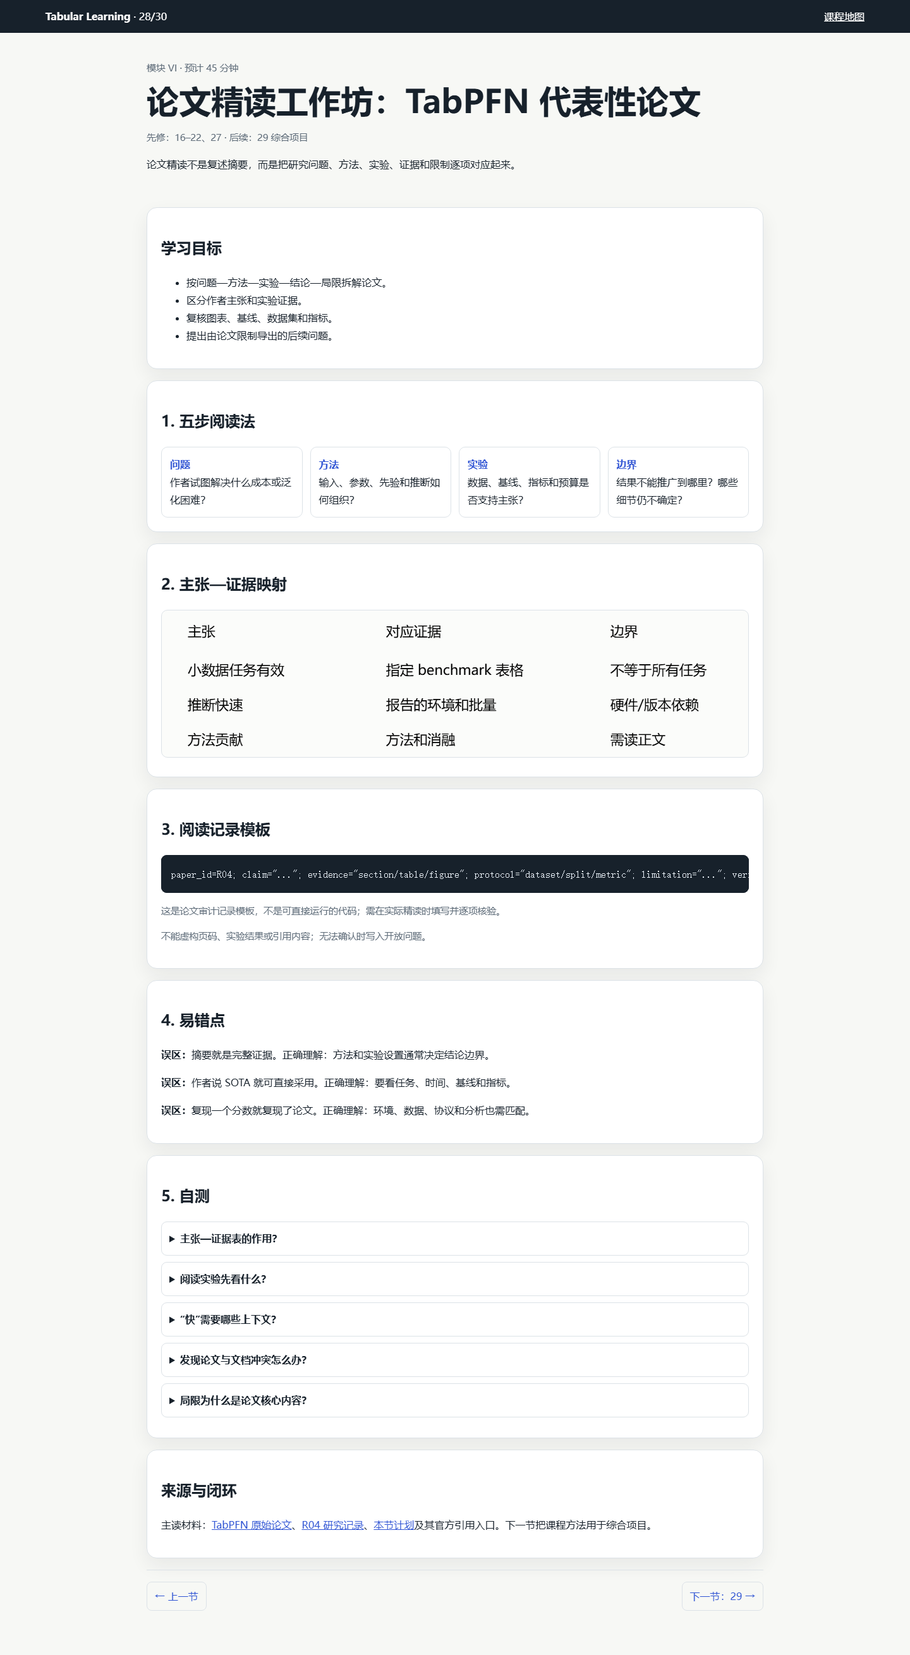
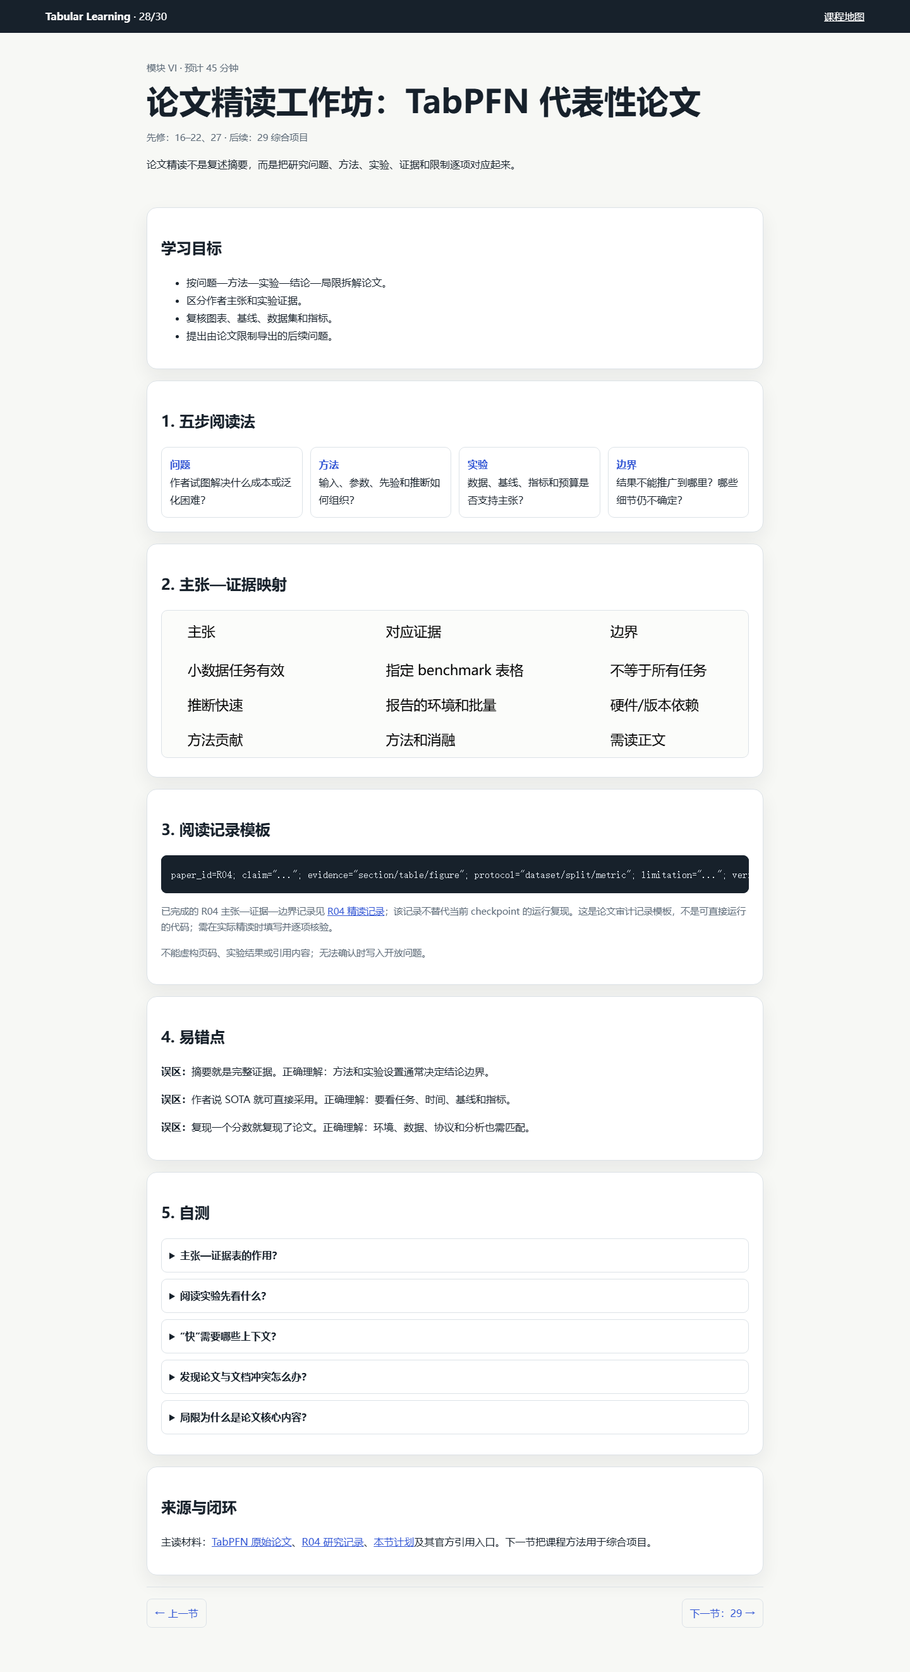
research: record R04 TabPFN paper reading

diff --git a/lessons/28_paper_workshop.html b/lessons/28_paper_workshop.html
@@ -1,1 +1,1 @@
-<!doctype html><html lang="zh-CN"><head><meta charset="utf-8"><meta name="viewport" content="width=device-width,initial-scale=1"><meta name="description" content="TabPFN代表性论文精读工作坊"><title>28｜论文精读工作坊：TabPFN 代表性论文</title><link rel="stylesheet" href="../assets/lesson.css"></head><body><header class="top"><span><strong>Tabular Learning</strong> · 28/30</span><a href="../index.html">课程地图</a></header><main class="layout"><section class="hero"><div class="eyebrow">模块 VI · 预计 45 分钟</div><h1>论文精读工作坊：TabPFN 代表性论文</h1><p class="meta">先修：16–22、27 · 后续：29 综合项目</p><p>论文精读不是复述摘要，而是把研究问题、方法、实验、证据和限制逐项对应起来。</p></section><section class="card"><h2>学习目标</h2><ul><li>按问题—方法—实验—结论—局限拆解论文。</li><li>区分作者主张和实验证据。</li><li>复核图表、基线、数据集和指标。</li><li>提出由论文限制导出的后续问题。</li></ul></section><section class="card"><h2>1. 五步阅读法</h2><div class="grid"><div class="term"><strong>问题</strong>作者试图解决什么成本或泛化困难？</div><div class="term"><strong>方法</strong>输入、参数、先验和推断如何组织？</div><div class="term"><strong>实验</strong>数据、基线、指标和预算是否支持主张？</div><div class="term"><strong>边界</strong>结果不能推广到哪里？哪些细节仍不确定？</div></div></section><section class="card"><h2>2. 主张—证据映射</h2><svg viewBox="0 0 680 170" role="img" aria-label="论文主张与证据映射表" style="max-width:100%;background:#fbfcfa;border:1px solid #dce2e7;border-radius:10px"><text x="30" y="30">主张</text><text x="260" y="30">对应证据</text><text x="520" y="30">边界</text><text x="30" y="75">小数据任务有效</text><text x="260" y="75">指定 benchmark 表格</text><text x="520" y="75">不等于所有任务</text><text x="30" y="115">推断快速</text><text x="260" y="115">报告的环境和批量</text><text x="520" y="115">硬件/版本依赖</text><text x="30" y="155">方法贡献</text><text x="260" y="155">方法和消融</text><text x="520" y="155">需读正文</text></svg></section><section class="card"><h2>3. 阅读记录模板</h2><pre><code>paper_id=R04; claim="..."; evidence="section/table/figure"; protocol="dataset/split/metric"; limitation="..."; verified_date="2026-10-10"</code></pre><p class="meta">这是论文审计记录模板，不是可直接运行的代码；需在实际精读时填写并逐项核验。</p><p class="meta">不能虚构页码、实验结果或引用内容；无法确认时写入开放问题。</p></section><section class="card"><h2>4. 易错点</h2><p><strong>误区：</strong>摘要就是完整证据。正确理解：方法和实验设置通常决定结论边界。</p><p><strong>误区：</strong>作者说 SOTA 就可直接采用。正确理解：要看任务、时间、基线和指标。</p><p><strong>误区：</strong>复现一个分数就复现了论文。正确理解：环境、数据、协议和分析也需匹配。</p></section><section class="card"><h2>5. 自测</h2><details class="quiz"><summary>主张—证据表的作用？</summary><p>防止把论文语言、实验结果和自己的推断混在一起。</p></details><details class="quiz"><summary>阅读实验先看什么？</summary><p>数据集、拆分、基线、指标、预算和资源。</p></details><details class="quiz"><summary>“快”需要哪些上下文？</summary><p>硬件、批量、版本、数据规模和测量方式。</p></details><details class="quiz"><summary>发现论文与文档冲突怎么办？</summary><p>记录版本、来源和差异，暂不强行统一。</p></details><details class="quiz"><summary>局限为什么是论文核心内容？</summary><p>它决定结论可推广范围和后续研究方向。</p></details></section><section class="card"><h2>来源与闭环</h2><p>主读材料：<a href="https://arxiv.org/abs/2207.01848">TabPFN 原始论文</a>、<a href="../research/references.md">R04 研究记录</a>、<a href="../lesson_plans/lesson_28_plan.md">本节计划</a>及其官方引用入口。下一节把课程方法用于综合项目。</p></section><nav class="nav"><a href="27_experiment_plan.html">← 上一节</a><a href="29_capstone.html">下一节：29 →</a></nav></main></body></html>
+<!doctype html><html lang="zh-CN"><head><meta charset="utf-8"><meta name="viewport" content="width=device-width,initial-scale=1"><meta name="description" content="TabPFN代表性论文精读工作坊"><title>28｜论文精读工作坊：TabPFN 代表性论文</title><link rel="stylesheet" href="../assets/lesson.css"></head><body><header class="top"><span><strong>Tabular Learning</strong> · 28/30</span><a href="../index.html">课程地图</a></header><main class="layout"><section class="hero"><div class="eyebrow">模块 VI · 预计 45 分钟</div><h1>论文精读工作坊：TabPFN 代表性论文</h1><p class="meta">先修：16–22、27 · 后续：29 综合项目</p><p>论文精读不是复述摘要，而是把研究问题、方法、实验、证据和限制逐项对应起来。</p></section><section class="card"><h2>学习目标</h2><ul><li>按问题—方法—实验—结论—局限拆解论文。</li><li>区分作者主张和实验证据。</li><li>复核图表、基线、数据集和指标。</li><li>提出由论文限制导出的后续问题。</li></ul></section><section class="card"><h2>1. 五步阅读法</h2><div class="grid"><div class="term"><strong>问题</strong>作者试图解决什么成本或泛化困难？</div><div class="term"><strong>方法</strong>输入、参数、先验和推断如何组织？</div><div class="term"><strong>实验</strong>数据、基线、指标和预算是否支持主张？</div><div class="term"><strong>边界</strong>结果不能推广到哪里？哪些细节仍不确定？</div></div></section><section class="card"><h2>2. 主张—证据映射</h2><svg viewBox="0 0 680 170" role="img" aria-label="论文主张与证据映射表" style="max-width:100%;background:#fbfcfa;border:1px solid #dce2e7;border-radius:10px"><text x="30" y="30">主张</text><text x="260" y="30">对应证据</text><text x="520" y="30">边界</text><text x="30" y="75">小数据任务有效</text><text x="260" y="75">指定 benchmark 表格</text><text x="520" y="75">不等于所有任务</text><text x="30" y="115">推断快速</text><text x="260" y="115">报告的环境和批量</text><text x="520" y="115">硬件/版本依赖</text><text x="30" y="155">方法贡献</text><text x="260" y="155">方法和消融</text><text x="520" y="155">需读正文</text></svg></section><section class="card"><h2>3. 阅读记录模板</h2><pre><code>paper_id=R04; claim="..."; evidence="section/table/figure"; protocol="dataset/split/metric"; limitation="..."; verified_date="2026-10-10"</code></pre><p class="meta"> 已完成的 R04 主张—证据—边界记录见 <a href="../reports/paper_reading_R04_tabpfn_original_2026-10-10.md">R04 精读记录</a>；该记录不替代当前 checkpoint 的运行复现。这是论文审计记录模板，不是可直接运行的代码；需在实际精读时填写并逐项核验。</p><p class="meta">不能虚构页码、实验结果或引用内容；无法确认时写入开放问题。</p></section><section class="card"><h2>4. 易错点</h2><p><strong>误区：</strong>摘要就是完整证据。正确理解：方法和实验设置通常决定结论边界。</p><p><strong>误区：</strong>作者说 SOTA 就可直接采用。正确理解：要看任务、时间、基线和指标。</p><p><strong>误区：</strong>复现一个分数就复现了论文。正确理解：环境、数据、协议和分析也需匹配。</p></section><section class="card"><h2>5. 自测</h2><details class="quiz"><summary>主张—证据表的作用？</summary><p>防止把论文语言、实验结果和自己的推断混在一起。</p></details><details class="quiz"><summary>阅读实验先看什么？</summary><p>数据集、拆分、基线、指标、预算和资源。</p></details><details class="quiz"><summary>“快”需要哪些上下文？</summary><p>硬件、批量、版本、数据规模和测量方式。</p></details><details class="quiz"><summary>发现论文与文档冲突怎么办？</summary><p>记录版本、来源和差异，暂不强行统一。</p></details><details class="quiz"><summary>局限为什么是论文核心内容？</summary><p>它决定结论可推广范围和后续研究方向。</p></details></section><section class="card"><h2>来源与闭环</h2><p>主读材料：<a href="https://arxiv.org/abs/2207.01848">TabPFN 原始论文</a>、<a href="../research/references.md">R04 研究记录</a>、<a href="../lesson_plans/lesson_28_plan.md">本节计划</a>及其官方引用入口。下一节把课程方法用于综合项目。</p></section><nav class="nav"><a href="27_experiment_plan.html">← 上一节</a><a href="29_capstone.html">下一节：29 →</a></nav></main></body></html>

diff --git a/code/link_lesson_28_reading_evidence.py b/code/link_lesson_28_reading_evidence.py
@@ -1,0 +1,26 @@
+"""Link the completed R04 reading record from lesson 28."""
+
+from pathlib import Path
+
+ROOT = Path(__file__).resolve().parents[1]
+PAGE = ROOT / "lessons" / "28_paper_workshop.html"
+LINK = (
+    ' 已完成的 R04 主张—证据—边界记录见 '
+    '<a href="../reports/paper_reading_R04_tabpfn_original_2026-10-10.md">'
+    'R04 精读记录</a>；该记录不替代当前 checkpoint 的运行复现。'
+)
+
+
+def main() -> None:
+    source = PAGE.read_text(encoding="utf-8")
+    if "paper_reading_R04_tabpfn_original_2026-10-10.md" not in source:
+        marker = '<p class="meta">'
+        start = source.index("<h2>3.")
+        position = source.index(marker, start) + len(marker)
+        source = source[:position] + LINK + source[position:]
+        PAGE.write_text(source, encoding="utf-8", newline="")
+    print("linked R04 reading evidence")
+
+
+if __name__ == "__main__":
+    main()

diff --git a/reports/paper_reading_R04_tabpfn_original_2026-10-10.md b/reports/paper_reading_R04_tabpfn_original_2026-10-10.md
@@ -1,0 +1,35 @@
+# R04 TabPFN 原始论文精读记录（2026-10-10）
+
+## 文献身份
+
+- 论文：Hollmann, Müller, Eggensperger, Hutter, *TabPFN: A Transformer That Solves Small Tabular Classification Problems in a Second*。
+- 核验版本：arXiv HTML v6，2023-09-16，<https://arxiv.org/html/2207.01848>。
+- 阅读范围：摘要、引言、第 2–6 节、可复现性章节、附录 A/B/C/E/F 中与课程主张直接相关的部分。
+- 记录原则：论文报告的结果、由论文机制支持的课程解释、当前仓库本机运行结果三者分开；论文中的速度和 benchmark 数字不当作本机结果。
+
+## 主张—证据—边界矩阵
+
+| ID | 论文主张/方法 | 证据位置 | 课程映射 | 边界与处理 |
+|---|---|---|---|---|
+| R04-C01 | TabPFN 是离线训练的 Transformer，在输入中接收带标签示例并进行 ICL；使用时不对当前数据做进一步梯度参数更新。 | 摘要；§1；§2，尤其是 PFN inference 与 architecture 段落 | 16–18、25、30 | “无需训练”只能理解为使用阶段不做常规参数训练，不能抹去预训练成本或推断计算；当前软件 API 行为仍需按 checkpoint 实测。 |
+| R04-C02 | PFN 通过合成任务先验拟合后验预测分布；训练损失是在合成数据的留出样本上计算的交叉熵。 | §2 及式 (1)、(2) | 16–19 | 这是论文方法描述，不等于当前 3.x/3.5 软件内部先验完全相同；课件已保留版本边界。 |
+| R04-C03 | TabPFN 对原始 PFN 的改动包括注意力 mask 调整和对不同特征数的 zero-padding；论文描述的模型是 12 层 Transformer。 | §3 | 17 | 不能用原始论文架构细节推断当前官方 checkpoint 的全部结构或 API。 |
+| R04-C04 | 论文先验混合 SCM 与 BNN，并对表格特性加入相关特征、类别、尺度和缺失值等修正；论文也讨论先验失配风险。 | §4、附录 C | 16、19、26 | 先验包含的生成机制不能被课件进一步脑补为未在论文确认的当前生成器；模拟匹配/失配实验仍未在本仓库执行。 |
+| R04-C05 | 论文主实验集中于小型分类数据：主表为 18 个数值、无缺失数据集，约束包含训练样本、特征和类别数；附录扩展到包含类别/缺失的数据。 | §5.2；附录 B.1、F.3 | 20、21、25、28 | 论文范围不是所有表格任务；回归、超大规模和当前版本能力不能由该论文直接推出。 |
+| R04-C06 | 基线包括 KNN、LogReg、XGBoost、LightGBM、CatBoost 和 AutoML；基线使用预算内的随机超参配置与交叉验证，而非简单默认参数。 | §5.2；附录 F.2 | 15、24、25、28 | 本仓库的 benchmark 协议不同，不能把论文排名与本地结果合并或声称复现论文。 |
+| R04-C07 | 论文报告了速度/性能比较，并使用多个 split、预算和公开 benchmark；论文明确把硬件、数据范围和训练/调参时间纳入比较上下文。 | §5.2、结论；附录 F.5 | 15、24、28 | 论文的秒数、加速比和排名仅属于论文环境；本仓库没有获得 checkpoint，因此没有本机 TabPFN 数字。 |
+| R04-C08 | 论文限制包括 Transformer 对小数据/序列长度的扩展限制，并提出类别、缺失、无关特征、规模、回归、OOD、公平性和可解释性等后续方向。 | §6 Conclusions & Future Work；附录 A/B | 20、22、26、27、30 | 论文提出方向不等于已解决问题；课件将其作为研究问题和失败条件，而非已验证能力。 |
+| R04-C09 | 论文提供代码、预训练模型和公开数据/复现入口。 | §8 Reproducibility | 21、28、29 | 历史代码/权重入口与当前 Prior Labs 软件不是同一版本；本机当前权重授权未完成。 |
+
+## 对课件的核对结论
+
+1. 第 16–19 节对 PFN、上下文、先验和固定参数的解释与 R04 的机制描述一致，并且没有把 TabPFN 说成完全不计算或普遍最强。
+2. 第 20–22 节把动态版本、checkpoint、许可证和 TabPFN 特定功能单独列为当前官方资料/本机实验问题，没有从 R04 直接推出当前版本能力。
+3. 第 25、28–30 节保留任务、数据、预算、硬件和版本边界；没有把论文 benchmark 结果写成当前项目结果。
+4. 第 21、29 节的 TabPFN 实验仍属于未完成项：隔离环境导入通过，但模型权重授权/下载、`fit/predict`、资源记录和同协议对照没有完成，证据见 `reports/tabpfn_probe_2026-10-10.md`。
+
+## 未解决的论文精读项
+
+- 尚未完成 R04 全部表格与附录数字的逐表转录/复核；本记录只覆盖课程直接使用的机制、范围、实验协议和限制。
+- 尚未获得当前 checkpoint，因此不能把历史 R04 的模型行为与当前软件进行运行级等价验证。
+- R04 的速度、排名和“state-of-the-art”措辞均保留论文版本和实验范围，不进入本仓库的本地性能结论。

diff --git a/qa/final_audit.md b/qa/final_audit.md
@@ -7,14 +7,14 @@
 - 30 个独立 lesson HTML 已存在。
 - 30 份 lesson plan 和 30 份逐节 checklist 已存在。
 - index.html 已链接 30/30 个课件。
-- HTML 结构/本地链接审计通过：31 个页面、215 个本地链接；30 节课件均含外部可核验来源，且已纳入审计硬门禁。最新完整自动重跑见 `reports/final_validation_run_2026-10-10.md`。
+- HTML 结构/本地链接审计通过：31 个页面、216 个本地链接；30 节课件均含外部可核验来源，且已纳入审计硬门禁。最新完整自动重跑见 `reports/final_validation_run_2026-10-10.md`。
 - 30 份 lesson plan 与 30 个 HTML 页面已通过跨章节对应审计。
 - 30 节页面与计划已通过最低内容深度结构审计；教学准确性仍需逐句人工核验。
 - 基础 sklearn、树模型、XGBoost、CatBoost、MLP 和校准 smoke test 有运行记录。
 - 研究计划、事实矩阵、参考文献、版本记录和开放问题已建立。
 - R05 PFN 原始论文链接已核正为 arXiv:2112.10510，并保存复核记录 `reports/core_fact_verification_2026-10-10.md`；外链审计重跑通过。
 - TabPFN 官方 Models/README 的版本、行列、类别、CPU 提示和许可边界已追加日期化证据；这些页面事实仍不替代本机 checkpoint 实测。
-- 已生成逐课来源清单：30 个课件、35 个外部链接引用、156 个本地来源链接；该清单明确不替代语义事实核验。
+- 已生成逐课来源清单：30 个课件、35 个外部链接引用、157 个本地来源链接；该清单明确不替代语义事实核验。
 - 已保存 `reports/paper_claim_verification_2026-10-10.md` 及 XGBoost、CatBoost、FT-Transformer 补充核验报告：主要论文机制已到章节/官方文档级，当前库行为、官方实现运行和逐课事实终审仍单独保留为缺口。
 - 已完成全课程桌面/移动截图捕获与缩略图复核，并保留入口页与第 05 节人工视觉记录；全课程截图证据仍不扩展为逐像素、屏幕阅读器或跨内核视觉认证。
 - 已让 Edge smoke test 保存 30 个课件的 390px 布局测量记录；该记录只证明自动化页面宽度断言，不替代人工逐页视觉和屏幕阅读器审查。

diff --git a/research/fact_check_matrix.md b/research/fact_check_matrix.md
@@ -22,6 +22,7 @@
 | F14 | 第 11–15 节表格挑战、MLP、Transformer、FT-Transformer 与公平比较主张 | 高 | R03、Transformer 原始论文、scikit-learn 官方文档 | 逐节主张复核 | `reports/lesson_11_15_claim_review_2026-10-10.md` 已记录机制层和协议层结论；第 12/13 页面内联片段仍未执行，但独立最小路径已运行，第 14 官方实现/API 与资源仍未实测，概念性挑战尚未逐项补齐独立来源 | 11–15 |
 | F15 | 第 16–22 节 TabPFN 动机、推断、ICL、先验、版本、实验与校准主张 | 高 | R04–R08、R13、scikit-learn calibration 文档 | 逐节主张复核 | `reports/lesson_16_22_claim_review_2026-10-10.md` 已区分论文/官方快照/本机导入/未获权重；第 21 节 checkpoint 预测、资源对照和第 22 节 TabPFN 特定功能仍未验证 | 16–22 |
 | F16 | 第 23–30 节数据处理、benchmark、模型比较、研究计划、论文精读和综合验收主张 | 高 | scikit-learn 官方文档、本地实验日志、R01–R13 | 逐节主张复核 | `reports/lesson_23_30_claim_review_2026-10-10.md` 已区分协议/模板/本地实验/未完成综合项目；MCAR/MAR/MNAR 专门来源、完整论文精读、TabPFN 同协议比较和真实教学试用仍缺 | 23–30 |
+| F17 | R04 TabPFN 原始论文的问题、方法、先验、实验协议、结论与限制 | 高 | R04 arXiv HTML v6 | 论文精读 | `reports/paper_reading_R04_tabpfn_original_2026-10-10.md` 已完成课程直接使用部分的主张—证据—边界映射；全文逐表数字复核和当前 checkpoint 等价运行仍缺 | 16–21, 25, 28–30 |
 
 ## 判定规则
 

diff --git a/reports/final_validation_run_2026-10-10.md b/reports/final_validation_run_2026-10-10.md
@@ -6,11 +6,11 @@
 
 ```text
 audit_lessons.py                         PASS (30 lessons, index links 30/30)
-check_html_structure.py                   PASS (31 pages, 215 local links)
+check_html_structure.py                   PASS (31 pages, 216 local links)
 cross_lesson_audit.py                    PASS (30 plans linked to 30 pages)
 content_depth_audit.py                   PASS (30 pages and plans)
 accessibility_audit.py                   PASS (31 pages)
-source_inventory.py                      PASS (30 lessons, 35 external, 156 local source links)
+source_inventory.py                      PASS (30 lessons, 35 external, 157 local source links)
 citation_consistency_audit.py            PASS (30 lessons, 3 manual-review warnings retained)
 browser_interaction_audit.py             PASS (30 lessons)
 ax_tree_course_audit.py                  PASS (30 lessons)
@@ -18,6 +18,7 @@ browser_smoke_test.py                    PASS (30 lessons, keyboard/clipboard/re
 lesson_03_06_examples.py                 PASS (deterministic teaching examples)
 lesson_12_13_examples.py                 PASS (MLP and multi-head attention minimal paths)
 course_visual_capture.py                  PASS (60 screenshots, 0 console errors, no mobile overflow)
+paper_reading_R04_tabpfn_original        PASS (course-relevant claim/evidence/boundary mapping)
 ```
 
 新增的 01/02/03/04/06/07/08/10/22 控件均有命名或标签，并被全课程交互与 AX tree 审计纳入。

diff --git a/PROJECT_STATUS.md b/PROJECT_STATUS.md
@@ -51,6 +51,7 @@
 - 完成第 11–15 节主张级事实核验记录，区分原始论文/官方文档支持、示意内容和未执行代码；第 14 节官方实现/API 仍未运行，详见 `reports/lesson_11_15_claim_review_2026-10-10.md`。
 - 完成第 16–22 节 TabPFN 主张级事实核验记录，分开记录论文、官方动态页面、本机导入和模型权重授权缺口；详见 `reports/lesson_16_22_claim_review_2026-10-10.md`。
 - 完成第 23–30 节研究与交付主张级核验记录，区分协议、模板、本地实验和未完成综合项目；详见 `reports/lesson_23_30_claim_review_2026-10-10.md`。
+- 完成 R04 TabPFN 原始论文的课程相关精读记录，并从第 28 节链接；保留逐表数字复核和当前 checkpoint 等价运行缺口，详见 `reports/paper_reading_R04_tabpfn_original_2026-10-10.md`。
 - 对照总控 Prompt 复核发现第 03、06 节基础知识覆盖不足，已补齐 ROC-AUC/Log Loss/RMSE/R²、阈值滑块、Gini/熵/信息增益公式和回归 SSE 案例；证据见 `reports/lesson_03_06_content_revision_2026-10-10.md`。
 - 已补齐第 02、04、07、08、10、22 节计划中的泄漏/复杂度/树数量/提升轮数/排列前缀/校准分箱示意控件，并通过全课程交互与可访问性审计；来源复核见 `reports/metrics_tree_claim_verification_2026-10-10.md`。
 

diff --git a/reports/lesson_source_inventory_2026-10-10.md b/reports/lesson_source_inventory_2026-10-10.md
@@ -31,11 +31,11 @@
 | `25_model_comparison.html` | 1 | 5 | `https://scikit-learn.org/stable/modules/model_evaluation.html` |
 | `26_research_opportunities.html` | 1 | 7 | `https://arxiv.org/abs/2207.01848` |
 | `27_experiment_plan.html` | 1 | 5 | `https://scikit-learn.org/stable/modules/cross_validation.html` |
-| `28_paper_workshop.html` | 1 | 5 | `https://arxiv.org/abs/2207.01848` |
+| `28_paper_workshop.html` | 1 | 6 | `https://arxiv.org/abs/2207.01848` |
 | `29_capstone.html` | 1 | 6 | `https://github.com/PriorLabs/TabPFN` |
 | `30_synthesis.html` | 1 | 7 | `https://scikit-learn.org/stable/modules/model_evaluation.html` |
 
-合计：30 个课件，35 个外部链接，156 个本地链接。
+合计：30 个课件，35 个外部链接，157 个本地链接。
 
 ## 判定
 

diff --git a/reports/citation_consistency_2026-10-10.md b/reports/citation_consistency_2026-10-10.md
@@ -31,7 +31,7 @@
 | 25 | 3 | 4 | 1 | 5 | 有 |
 | 26 | 0 | 0 | 1 | 7 | 未发现 |
 | 27 | 0 | 0 | 1 | 5 | 有 |
-| 28 | 0 | 1 | 1 | 5 | 有 |
+| 28 | 0 | 1 | 1 | 6 | 有 |
 | 29 | 0 | 0 | 1 | 6 | 有 |
 | 30 | 0 | 0 | 1 | 7 | 未发现 |
 
